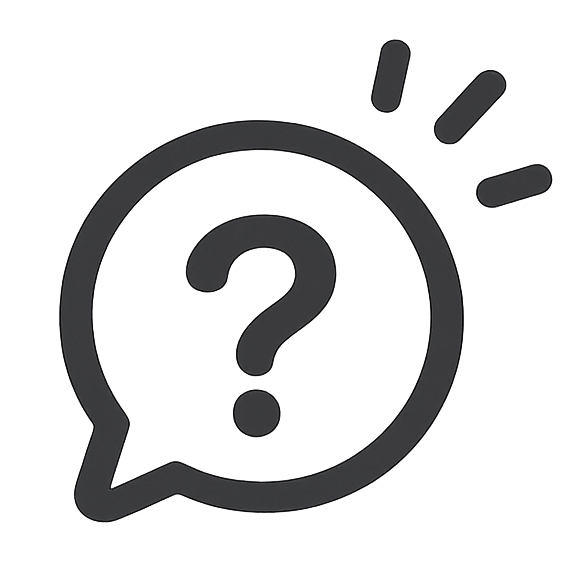
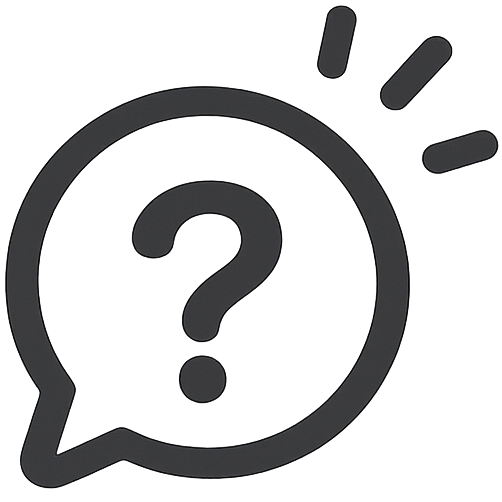
ロールバック

diff --git a/index.html b/index.html
@@ -327,7 +327,7 @@ hr.div{border:none;border-top:1px solid var(--border);margin:1.125rem 0}
 .logout-btn{padding:3px 11px;font-size:11px;border:1px solid var(--bm);border-radius:20px;background:none;cursor:pointer;color:var(--t2);font-family:inherit;transition:background .15s}
 .logout-btn:hover{background:var(--acc-bg);color:var(--t)}
 .logout-btn.icon-btn{padding:3px 10px;display:inline-flex;align-items:center;justify-content:center}
-.logout-btn.icon-btn img{display:block;height:14px;width:20px}
+.logout-btn.icon-btn img{display:block;height:14px;width:14px}
 .role-badge{padding:2px 8px;border-radius:20px;font-size:10px;font-weight:500}
 .role-badge.admin{background:#EEEDFE;color:#3C3489;border:.5px solid #AFA9EC}
 .role-badge.user{background:var(--acc-bg);color:var(--acc);border:.5px solid var(--bm)}
@@ -507,7 +507,7 @@ body.touch-device .sub-tab.active:active {
 <div class="top-action-bar">
   <span id="role-badge-wrap"></span>
   <button class="logout-btn icon-btn" id="inquiry-btn" onclick="openInquiryModal()" title="問い合わせ" aria-label="問い合わせ">
-    <img src="images/form.png" alt="問い合わせ" width="20" height="20">
+    <img src="images/form.png" alt="問い合わせ" width="14" height="14">
   </button>
   <button class="logout-btn" onclick="doLogout()">ログアウト</button>
 </div>
